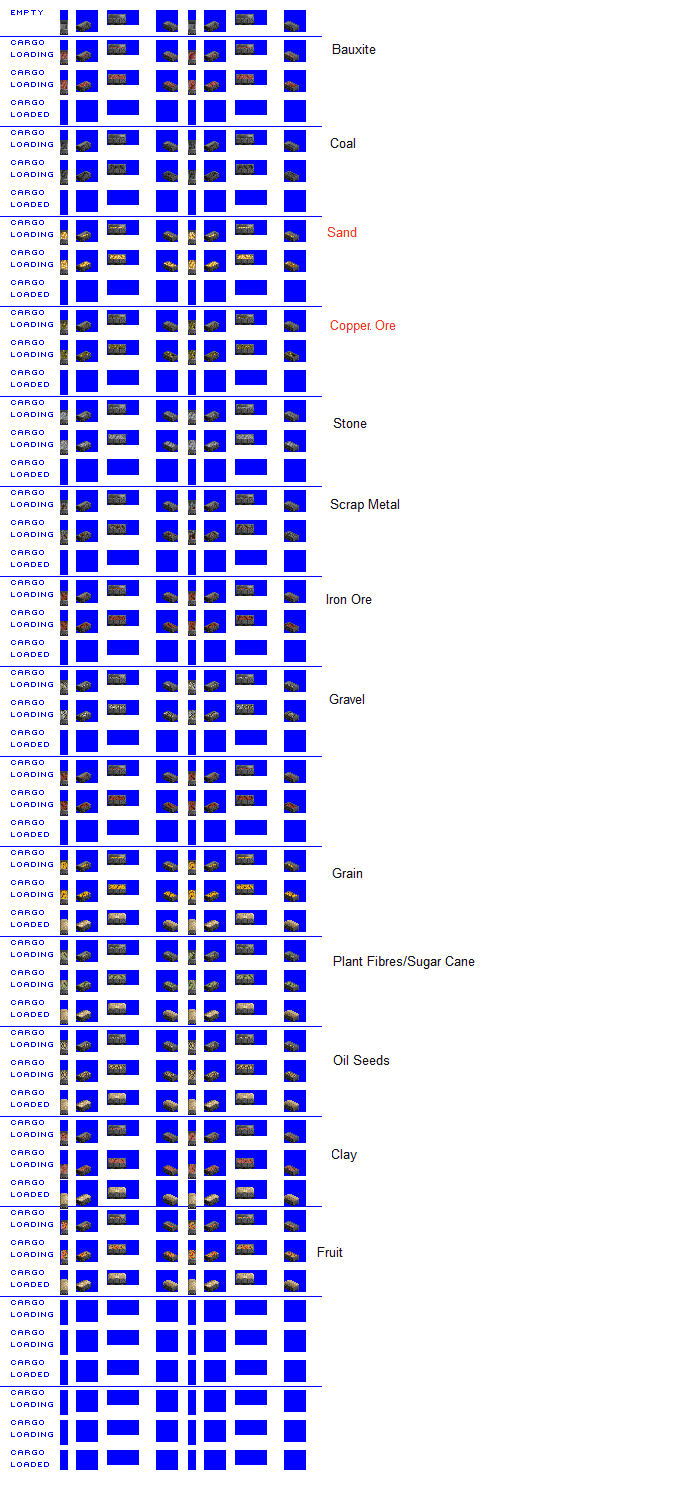
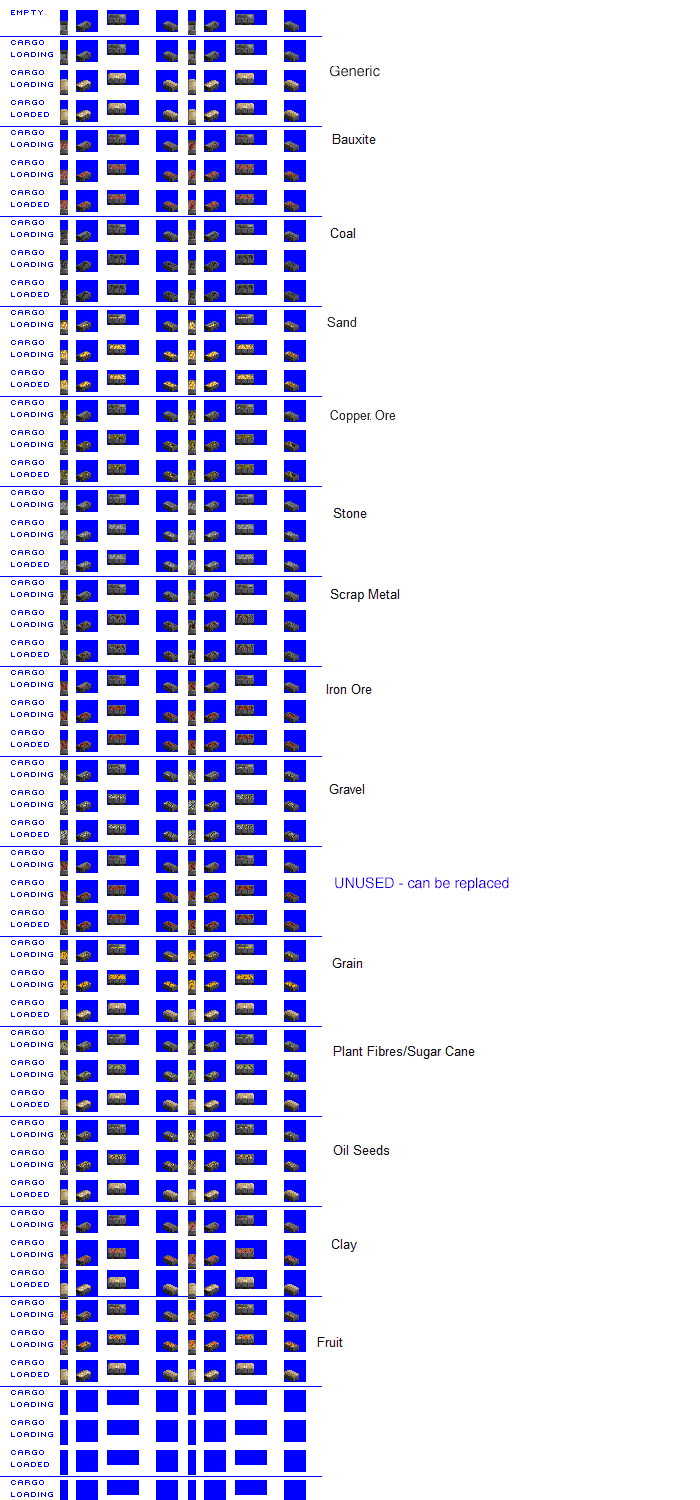
Feature: brit open wagon gen 1 has a range of load graphics (closes #6451)

diff --git a/src/global_constants.py b/src/global_constants.py
@@ -64,56 +64,56 @@ capacity_multipliers = [0.67, 1, 1.33]
 # used to construct the cargo table automatically
 # ! order is significant ! - openttd will cascade through default cargos in the order specified by the cargo table
 cargo_labels = ['PASS', # pax first
-                           'TOUR',
-                           # "the mail must get through"
-                           'MAIL',
-                           # bulk-ish cargos
-                           'COAL',
-                           'IORE',
-                           'GRVL',
-                           'SAND',
-                           'AORE',
-                           'CORE',
-                           'CLAY',
-                           'SCMT',
-                           'WOOD',
-                           'LIME',
-                           # common express-ish / processed cargos
-                           'GOOD',
-                           'FOOD',
-                           'STEL',
-                           'FMSP',
-                           'ENSP',
-                           'BEER',
-                           'BDMT',
-                           'MNSP',
-                           'PAPR',
-                           'WDPR',
-                           'VEHI',
-                           'COPR',
-                           'DYES',
-                           # liquid-ish cargos
-                           'OIL_',
-                           'RFPR',
-                           'PETR',
-                           'PLAS',
-                           'WATR',
-                           # fish and farm cargos
-                           'FISH',
-                           'CERE',
-                           'FICR',
-                           'FRVG',
-                           'FRUT',
-                           'GRAI',
-                           'LVST',
-                           'MAIZ',
-                           'MILK',
-                           'RUBR',
-                           'SGBT',
-                           'SGCN',
-                           'WHEA',
-                           'WOOL']
-
+                'TOUR',
+                # "the mail must get through"
+                'MAIL',
+                # all other cargos - append new ones to end, don't change order
+                'COAL',
+                'IORE',
+                'GRVL',
+                'SAND',
+                'AORE',
+                'CORE',
+                'CLAY',
+                'SCMT',
+                'WOOD',
+                'LIME',
+                'GOOD',
+                'FOOD',
+                'STEL',
+                'FMSP',
+                'ENSP',
+                'BEER',
+                'BDMT',
+                'MNSP',
+                'PAPR',
+                'WDPR',
+                'VEHI',
+                'COPR',
+                'DYES',
+                # liquid-ish cargos
+                'OIL_',
+                'RFPR',
+                'PETR',
+                'PLAS',
+                'WATR',
+                # fish and farm cargos
+                'FISH',
+                'CERE',
+                'FICR',
+                'FRVG',
+                'FRUT',
+                'GRAI',
+                'LVST',
+                'MAIZ',
+                'MILK',
+                'RUBR',
+                'SGBT',
+                'SGCN',
+                'WHEA',
+                'WOOL',
+                'OLSD']
+                
 # this is for nml, don't need to use python path module here
 graphics_path = 'src/graphics/'
 

diff --git a/src/train.py b/src/train.py
@@ -462,7 +462,10 @@ class OpenCar(Wagon):
         self.num_cargo_rows = 15
         # mappings are to rows in the spritesheet, 0-based (0 is also default)
         # also get the allowed label refits from the graphics mapping - use row 0 if there's no specific graphics for the label 
-        self.cargo_graphics_mappings = {'AORE': 1, 'COAL': 2, 'RFPR': 1}
+        self.cargo_graphics_mappings = {'AORE': 1, 'COAL': 2, 'SAND': 3, 'CORE': 4, 'LIME': 5, 
+                                        'SCMT': 6, 'IORE': 7, 'GRVL': 8, 'GRAI': 10, 'WHEA': 10,
+                                        'MAIZ': 10, 'FICR': 11, 'SGCN': 11, 'OLSD': 12, 'CLAY': 13,
+                                        'FRUT': 14, 'FRVG': 14}
         self.label_refits_allowed = self.cargo_graphics_mappings.keys() 
         self.label_refits_disallowed = []
         self.autorefit = True

diff --git a/src/vehicles/open_cars.py b/src/vehicles/open_cars.py
@@ -12,7 +12,7 @@ vehicle = OpenCar(title = 'Open [Car]',
                 weight = 100,
                 vehicle_length = 5,
                 buy_menu_width = 32,
-                loading_speed = 20,
+                loading_speed = 5,
                 intro_date = 1860,
                 str_type_info = 'COASTER',
                 vehicle_life = 40,
